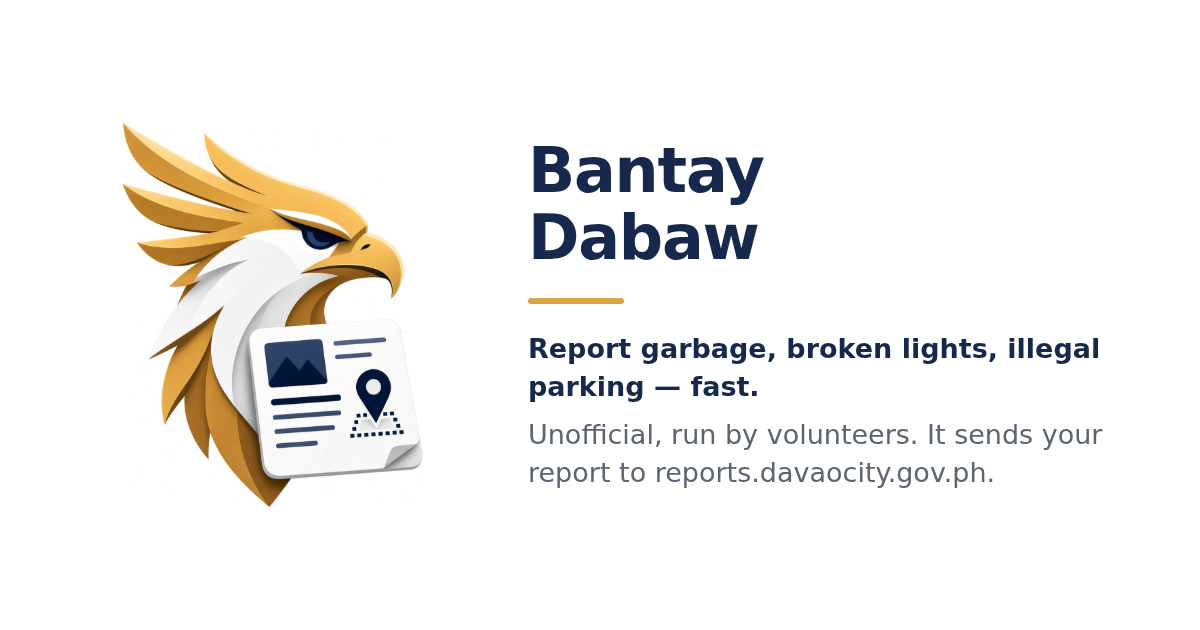
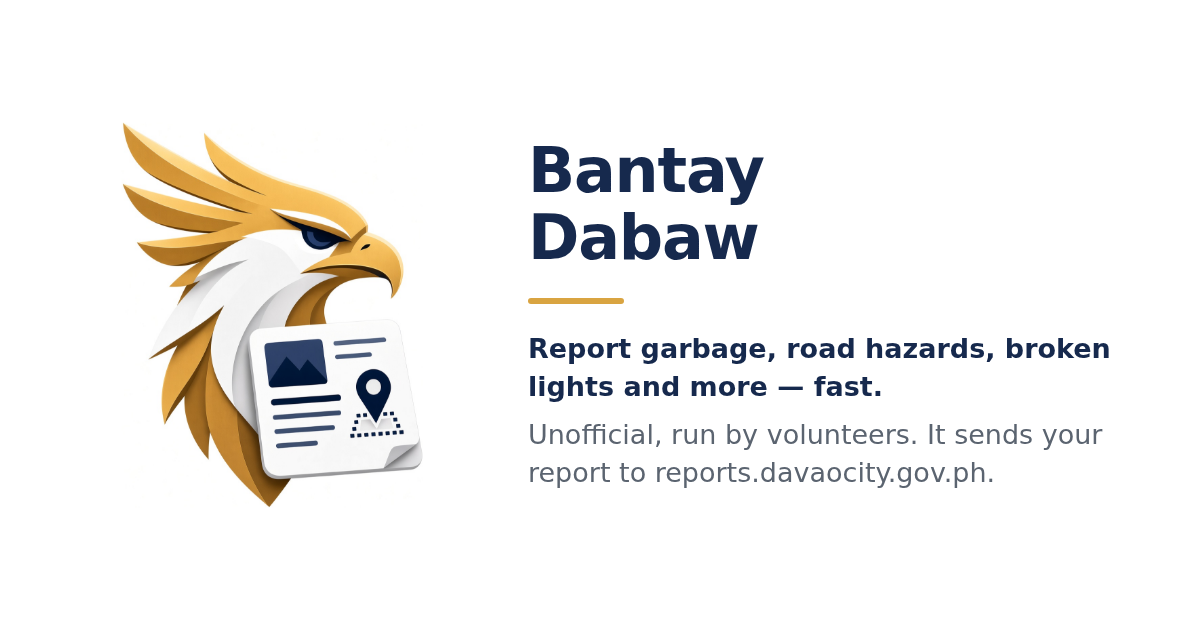
fix(brand): stop the card reading as a menu of three
There are six categories and one of them is Other, so a bare list of
three named the whole service as less than it is. "and more" is the
plainest signal that the words after it are examples, and it survives
a reader who takes in one line and no more.

Road hazards replace illegal parking in the examples: both are real
categories, and a hazard is the one a passer-by stops to photograph.

Changed region(s): [[0.6475, 0.5127, 0.925, 0.573], [0.4317, 0.6032, 0.74, 0.6333]]

diff --git a/frontend/index.html b/frontend/index.html
@@ -11,13 +11,13 @@
     <title>Bantay Dabaw</title>
     <meta
       name="description"
-      content="Unofficial, run by volunteers. A faster way to send a photo of garbage, a broken light or illegal parking in Davao City to reports.davaocity.gov.ph."
+      content="Unofficial, run by volunteers. A faster way to send a photo of garbage, road hazards, broken lights and more in Davao City to reports.davaocity.gov.ph."
     />
     <meta property="og:type" content="website" />
     <meta property="og:title" content="Bantay Dabaw" />
     <meta
       property="og:description"
-      content="Unofficial, run by volunteers. A faster way to send a photo of garbage, a broken light or illegal parking in Davao City to reports.davaocity.gov.ph."
+      content="Unofficial, run by volunteers. A faster way to send a photo of garbage, road hazards, broken lights and more in Davao City to reports.davaocity.gov.ph."
     />
     <meta property="og:image" content="https://dvo-reports.pages.dev/social-card.png" />
     <meta property="og:image:width" content="1200" />
